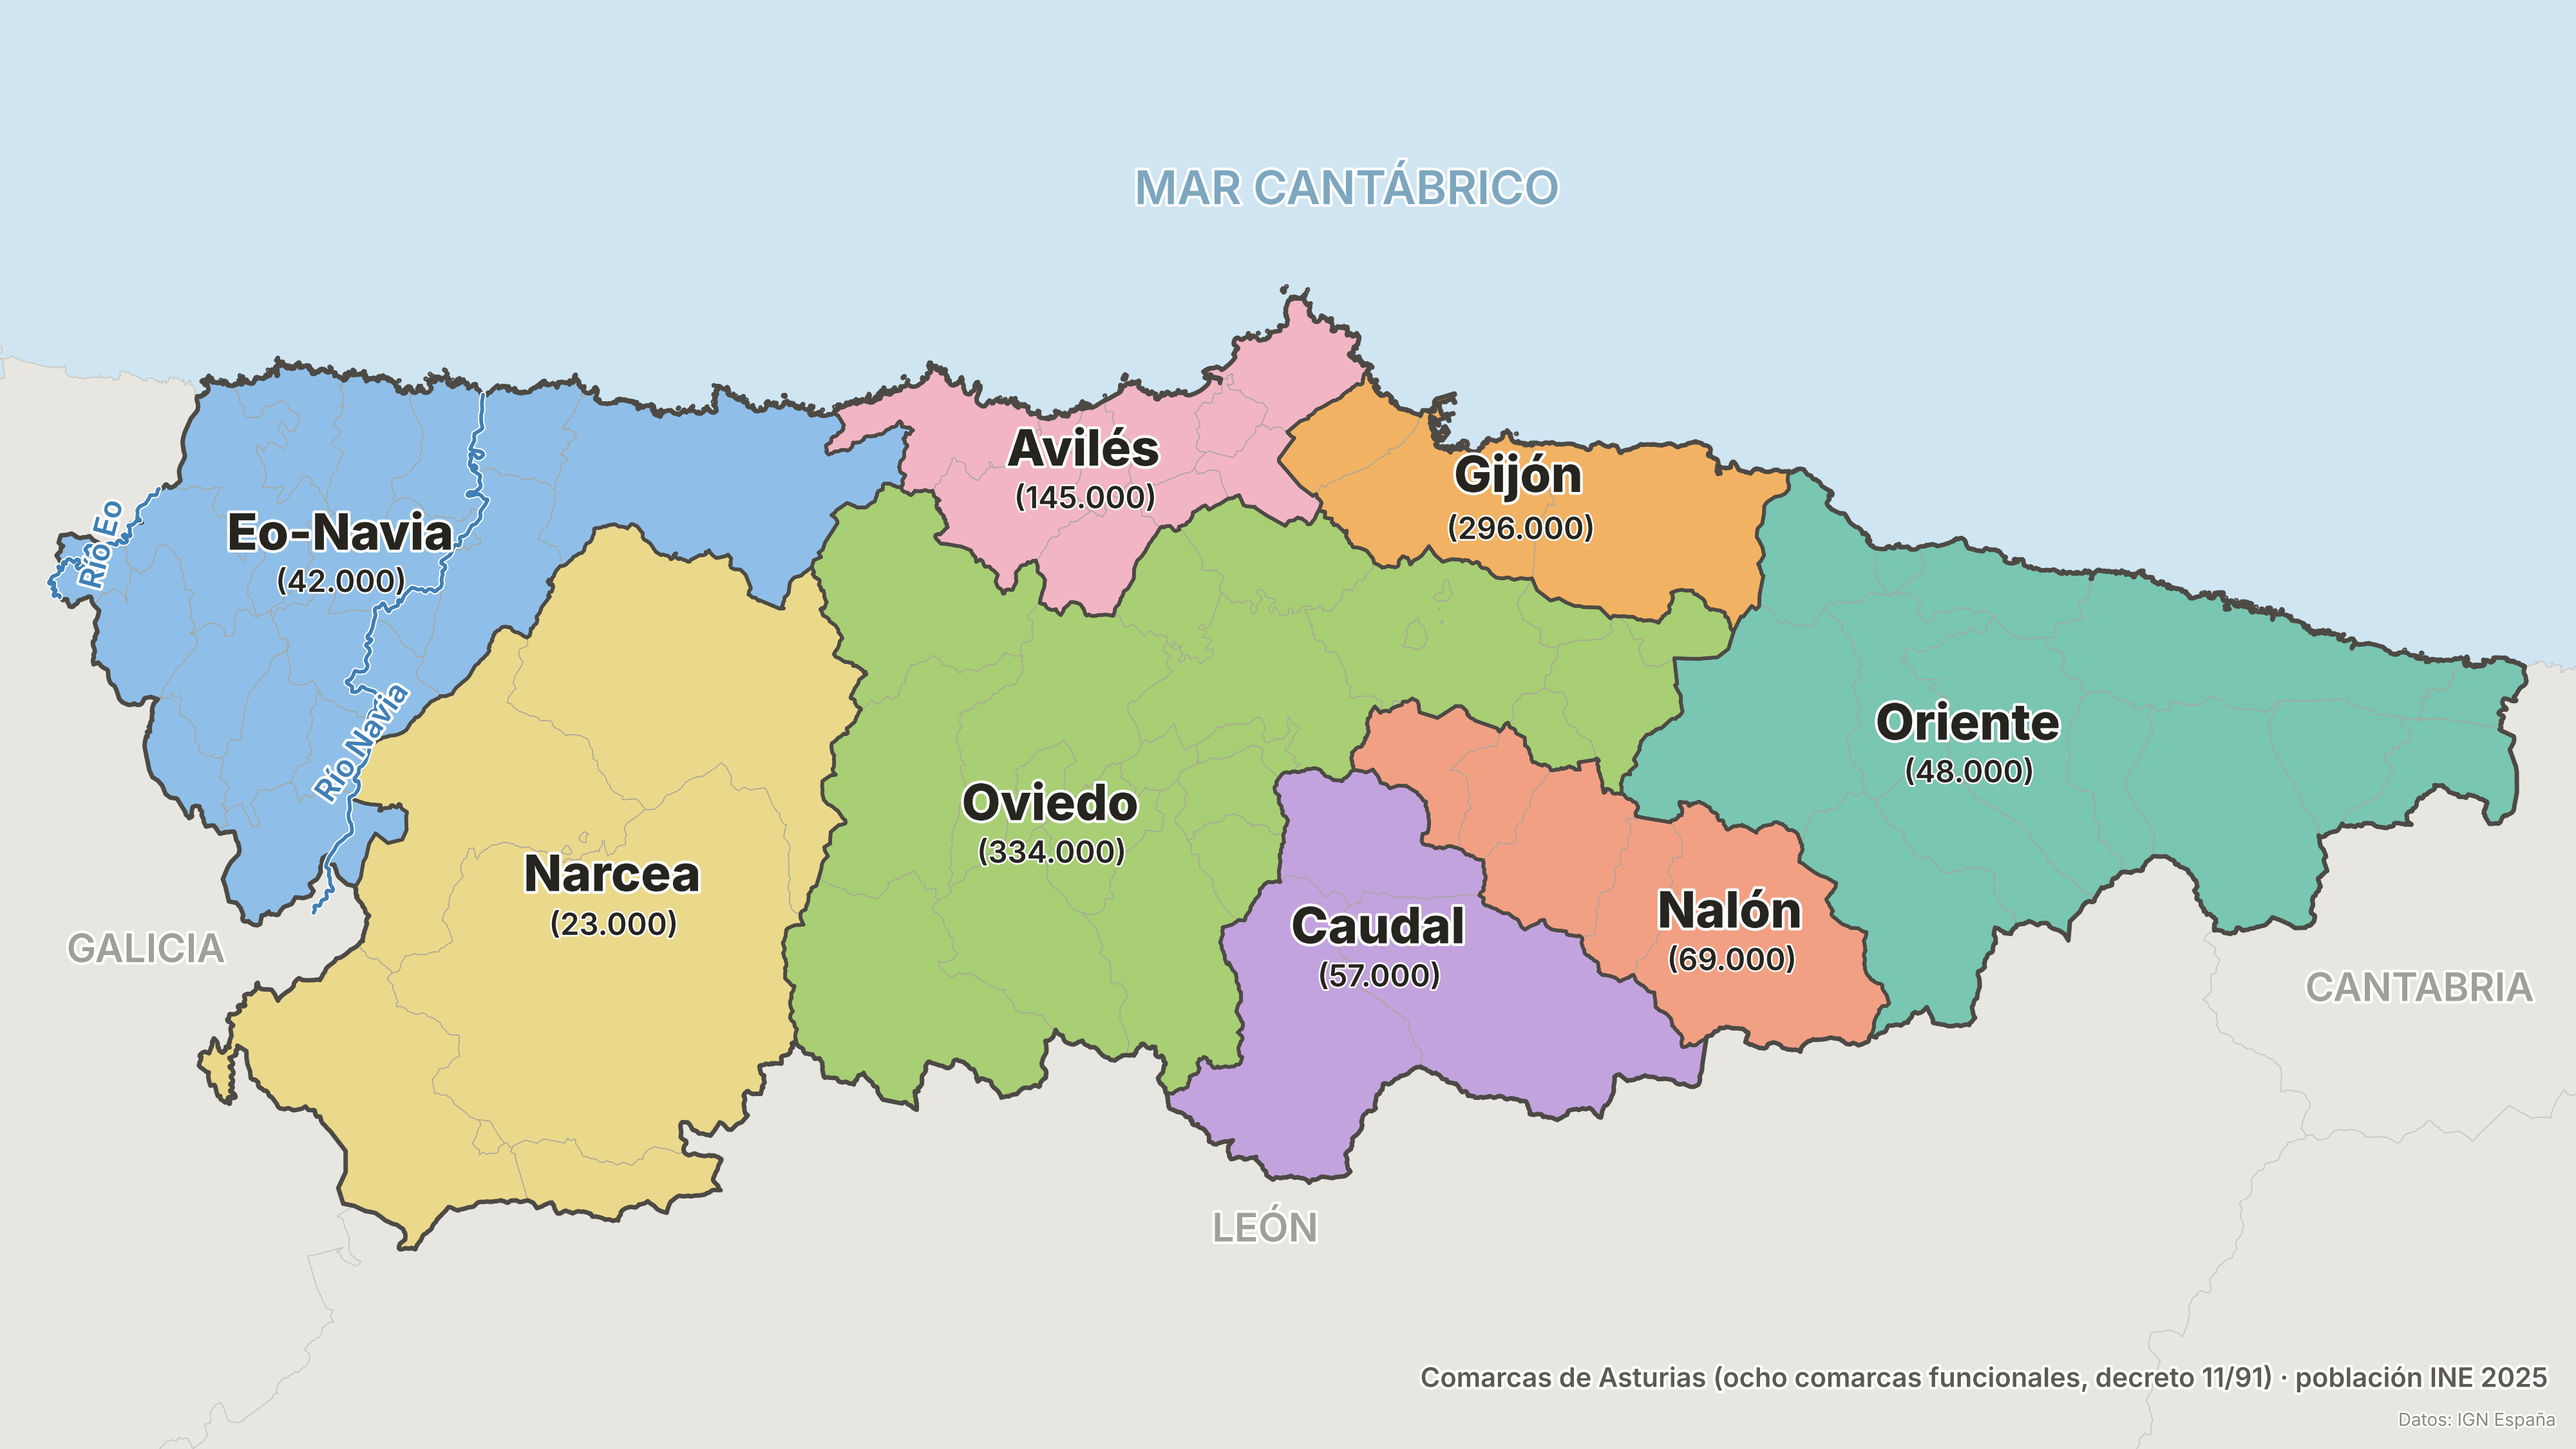
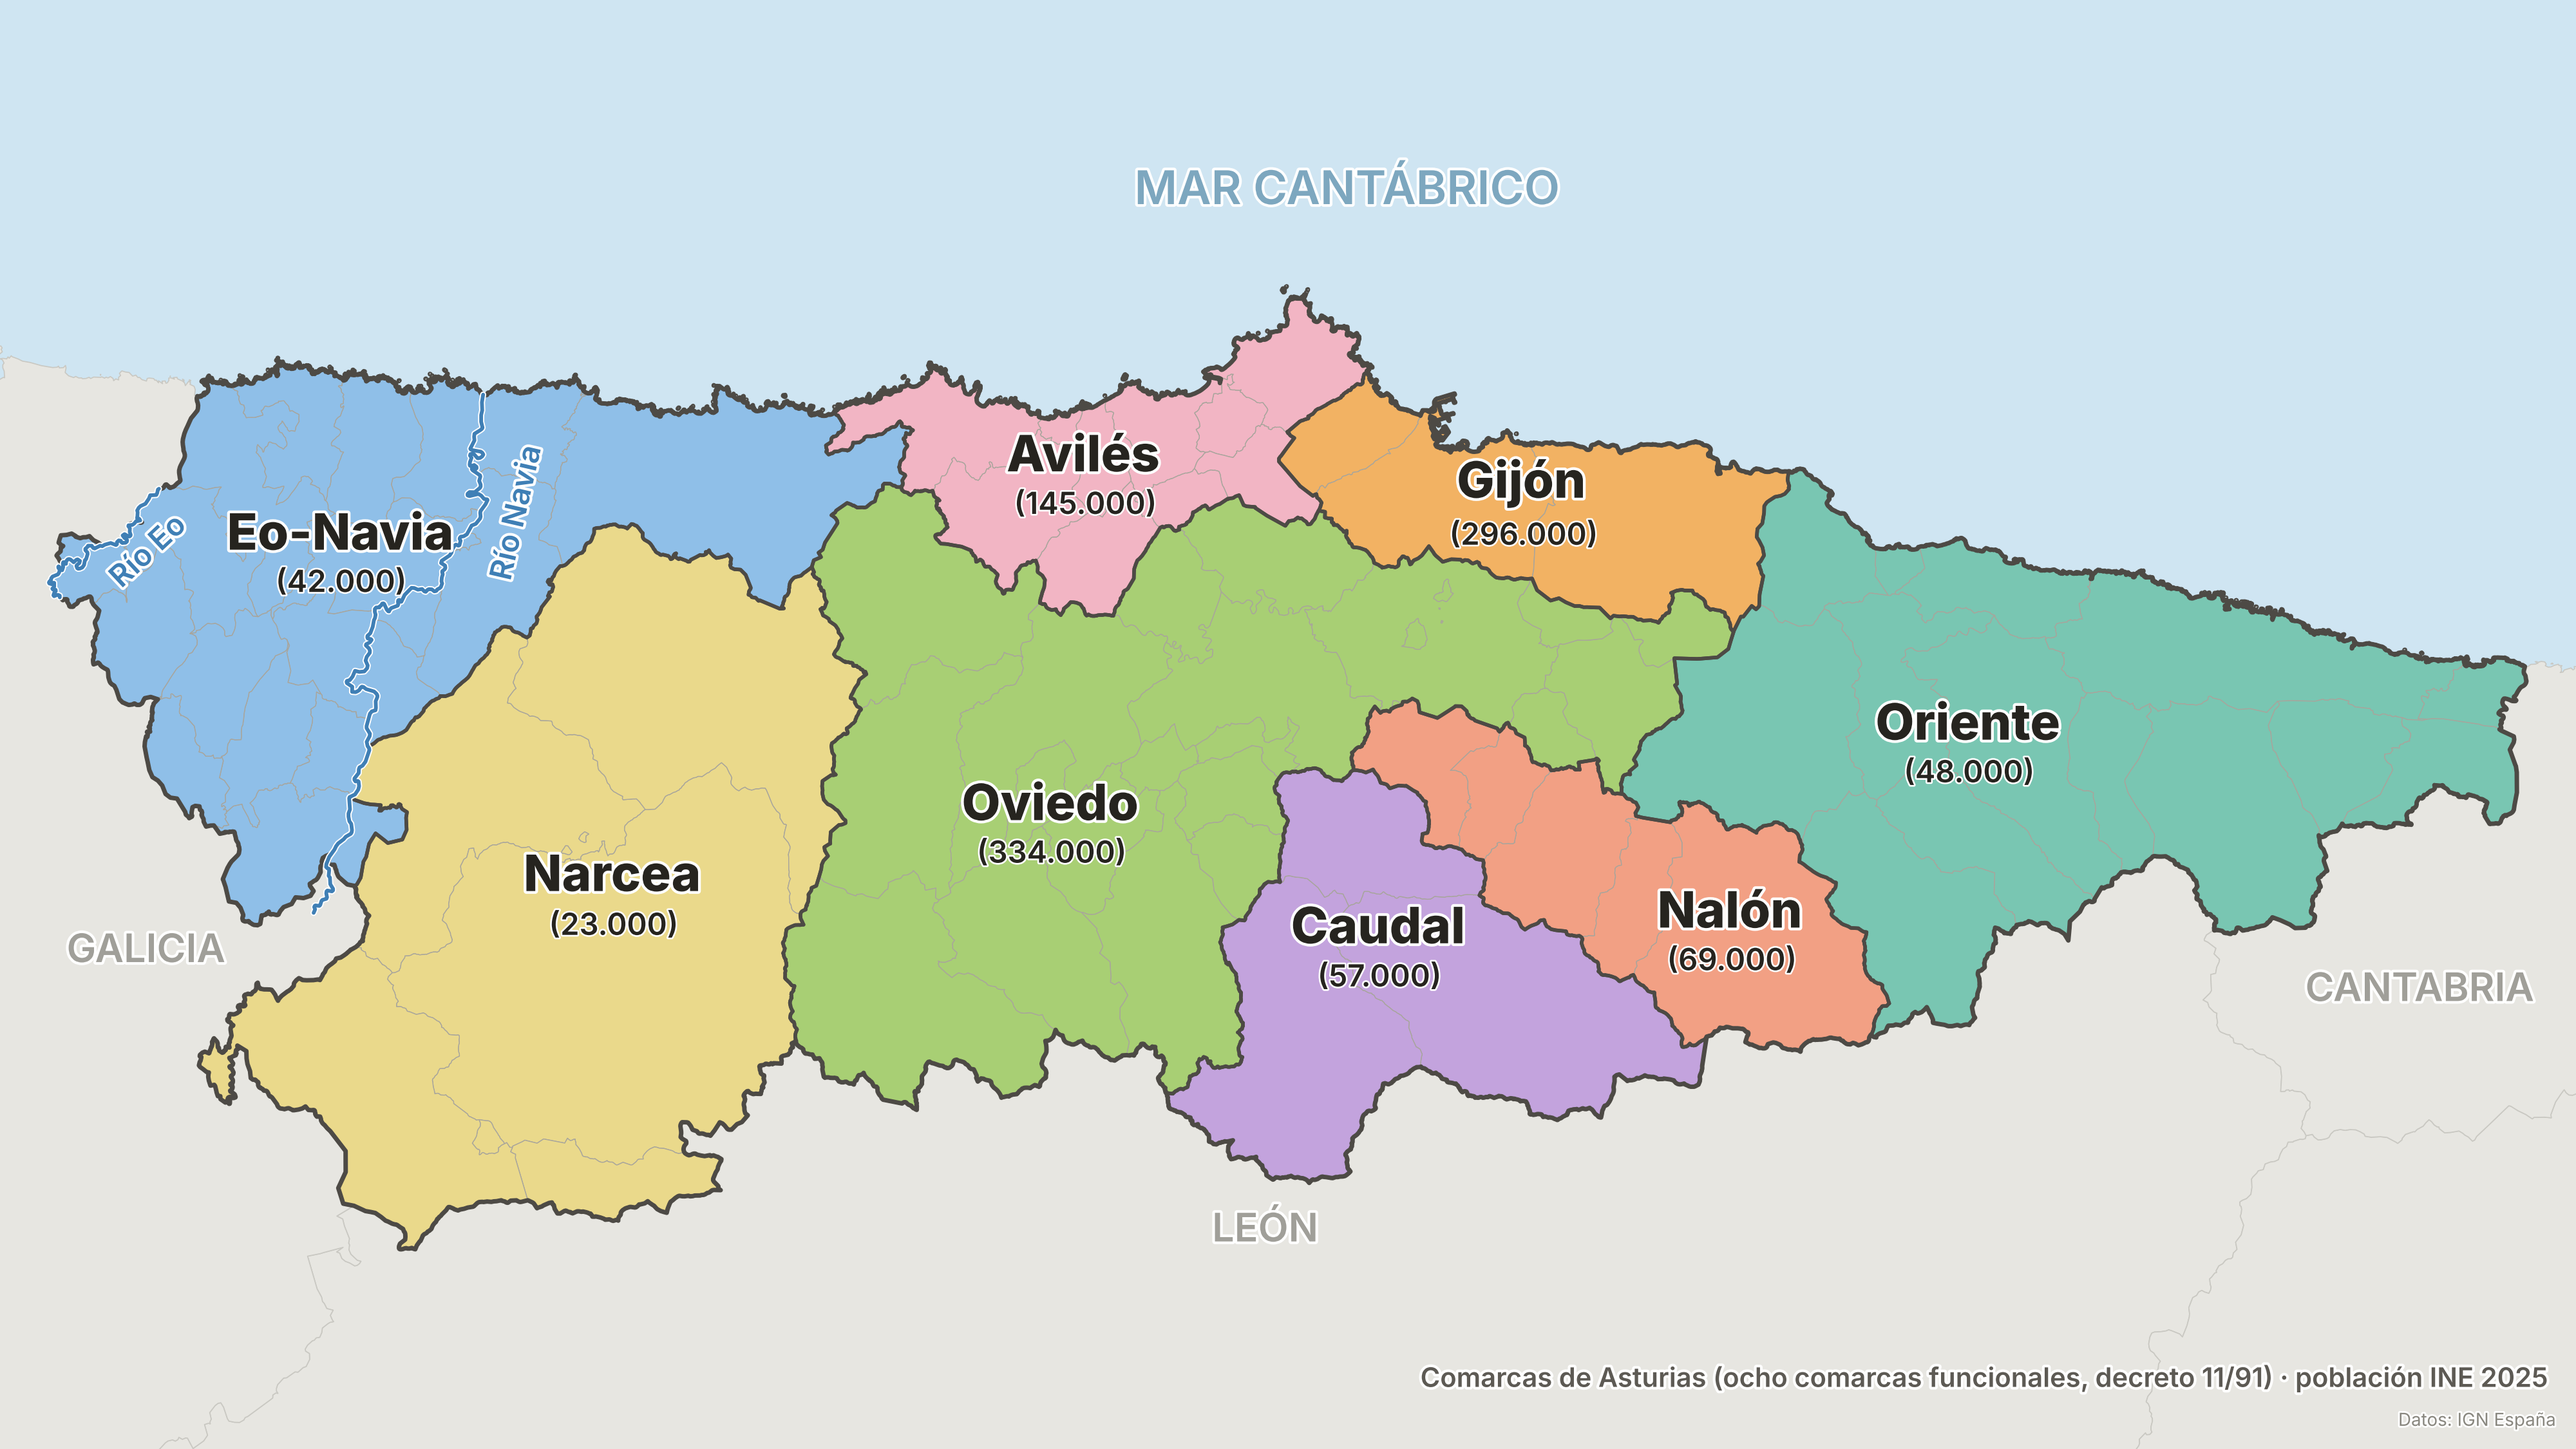
manual adjustments

diff --git a/tvmaps/maps_asturias.py b/tvmaps/maps_asturias.py
@@ -170,9 +170,9 @@ COMARCA_NAME_ALIASES = {"Tapia de Casariego": "Tapia"}
 COMARCA_LABELS = {
     "Eo-Navia": Label(56),
     "Narcea": Label(56, dy=-6),
-    "Avilés": Label(56, dx=-0.5, dy=2.25),
+    "Avilés": Label(56, dx=-0.5, dy=1.75),
     "Oviedo": Label(56),
-    "Gijón": Label(56, dx=-6.25, dy=2),
+    "Gijón": Label(56, dx=-6, dy=1.5),
     "Caudal": Label(56),
     "Nalón": Label(56),
     "Oriente": Label(56),
@@ -490,8 +490,8 @@ ASTURIAS_RIOS = {
 # The two rivers painted on the comarcas map so "Eo-Navia" explains itself
 # (see _comarca_rivers). Same spec shape as ASTURIAS_RIOS; labels say "Río …".
 COMARCA_RIOS = {
-    "Eo": RiverSpec(-7.13, 43.425, 75, 34),
-    "Navia": RiverSpec(-6.84, 43.28, 55, 34),
+    "Eo": RiverSpec(-7.08, 43.4222, 43, 34),
+    "Navia": RiverSpec(-6.6854, 43.465, 77, 34),
 }
 
 # A few reference points so the rivers can be read against known places.
